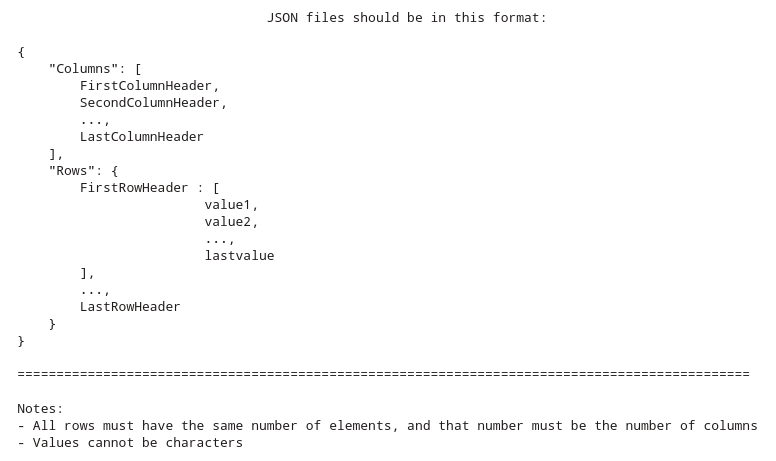
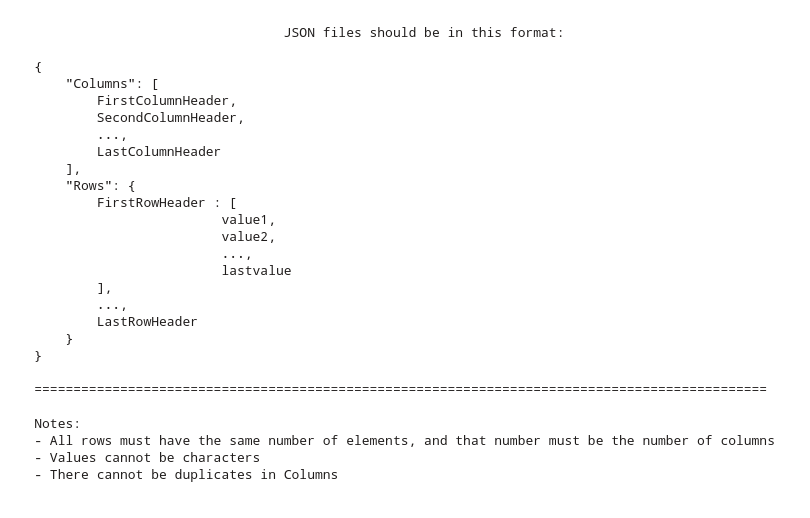
Add files via upload

diff --git a/view.cpp b/view.cpp
@@ -39,15 +39,6 @@
 #include <algorithm>
 using namespace std;
 
-template<typename T>
-bool unique(vector<T> const &vec){
-    map<T, int> freq;
-    for (T const &i: vec) freq[i]++;
-    for (auto const &pair: freq)if (pair.second > 1) return false;
-    return true;
-}
-
-
 void View::setToolBar()
 {
     chartSelector->addItem(QIcon(":/res/icons/line-chart.png"), "Line Chart");
@@ -369,7 +360,7 @@ void View::renameHeadersDialog()
 
         vector<QString> colHeads;
         for(auto col : columnsHeadersInputs) if(col->text()!="") colHeads.push_back(col->text());
-        if(!unique(colHeads)) {
+        if(!Parser::unique(colHeads)) {
             QMessageBox::critical(this, "Error", "Found column headers with same name.");
             return;
         }

diff --git a/parser.cpp b/parser.cpp
@@ -1,3 +1,14 @@
 #include "parser.h"
 #include "model.h"
 
+
+template<typename T>
+bool Parser::unique(vector<T> const &vec){
+    map<T, int> freq;
+    for (const T &i: vec) freq[i]++;
+    for (auto const &pair: freq) if (pair.second > 1) return false;
+    return true;
+}
+
+template bool Parser::unique(vector<QString> const &);
+template bool Parser::unique(vector<QVariant> const &);

diff --git a/parser.h b/parser.h
@@ -2,8 +2,6 @@
 #define PARSER_H
 
 #include "controller.h"
-
-
 #include <QFile>
 #include <QString>
 #include <QJsonArray>
@@ -20,6 +18,8 @@ public:
     virtual DataTableModel* load(QFile&) const = 0;
     virtual void save(DataTableModel*, QFile&) const = 0;
     virtual ~Parser() = default;
+    template<typename T>
+    static bool unique(vector<T> const&);
 };
 
 #endif

diff --git a/xmlparser.cpp b/xmlparser.cpp
@@ -57,7 +57,7 @@ DataTableModel* XmlParser::load(QFile& file) const{
         if(colCheck!=columnCount)
             throw true;
     }
-    if(rowCount<1 || columnCount<1) throw true;
+    if(rowCount<1 || columnCount<1 || !Parser::unique(columnsHeader)) throw true;
     return new DataTableModel(nullptr, rowCount, columnCount, values, columnsHeader, rowsHeaders);
 }
 

diff --git a/jsonparser.cpp b/jsonparser.cpp
@@ -53,7 +53,7 @@ DataTableModel* JsonParser::load(QFile& file) const {
     }
 
     file.close();
-        if(row_Count<1 || col_Count<1) throw true;
+        if(row_Count<1 || col_Count<1 || !Parser::unique(columnsHeaders)) throw true;
     return new DataTableModel(nullptr, row_Count, col_Count, values, columnsHeaders , rowsHeaders);
 }
 

diff --git a/controller.cpp b/controller.cpp
@@ -29,3 +29,4 @@ void Controller::removeColumnReceived(DataTableModel *model)
     else model->removeColumn();
 }
 
+
